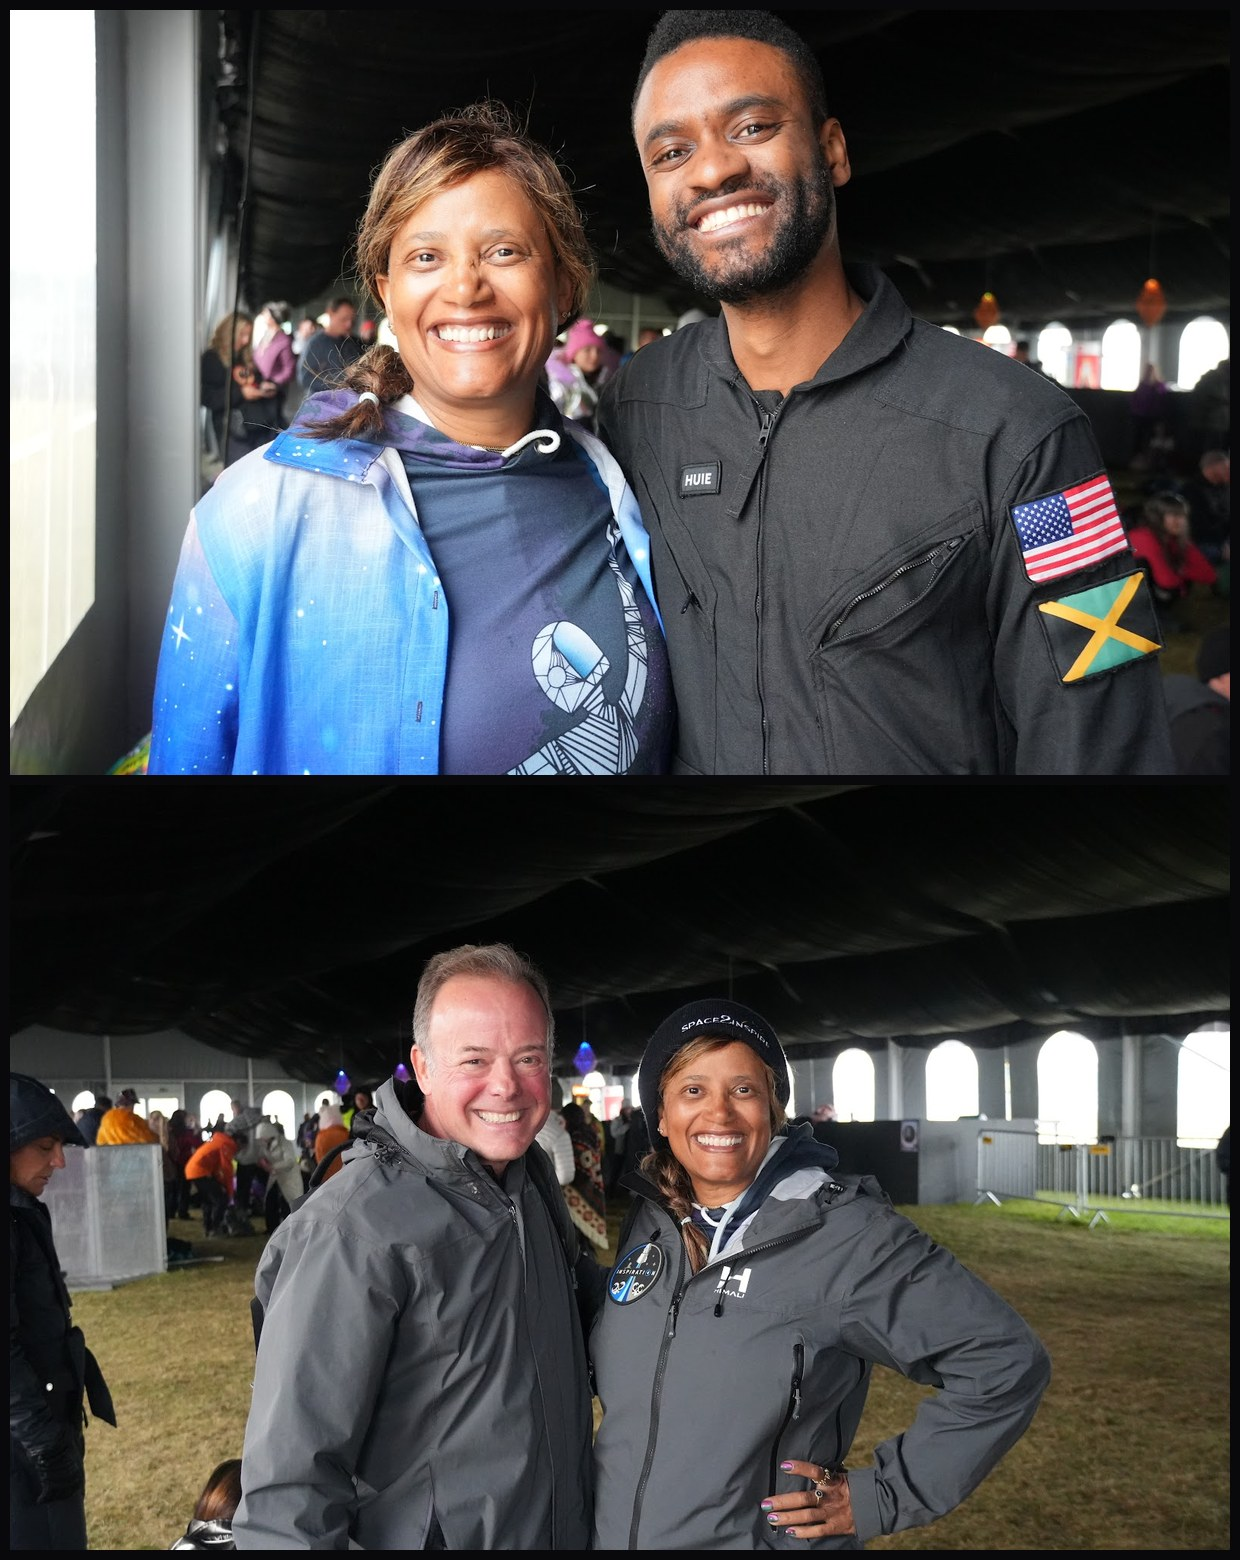
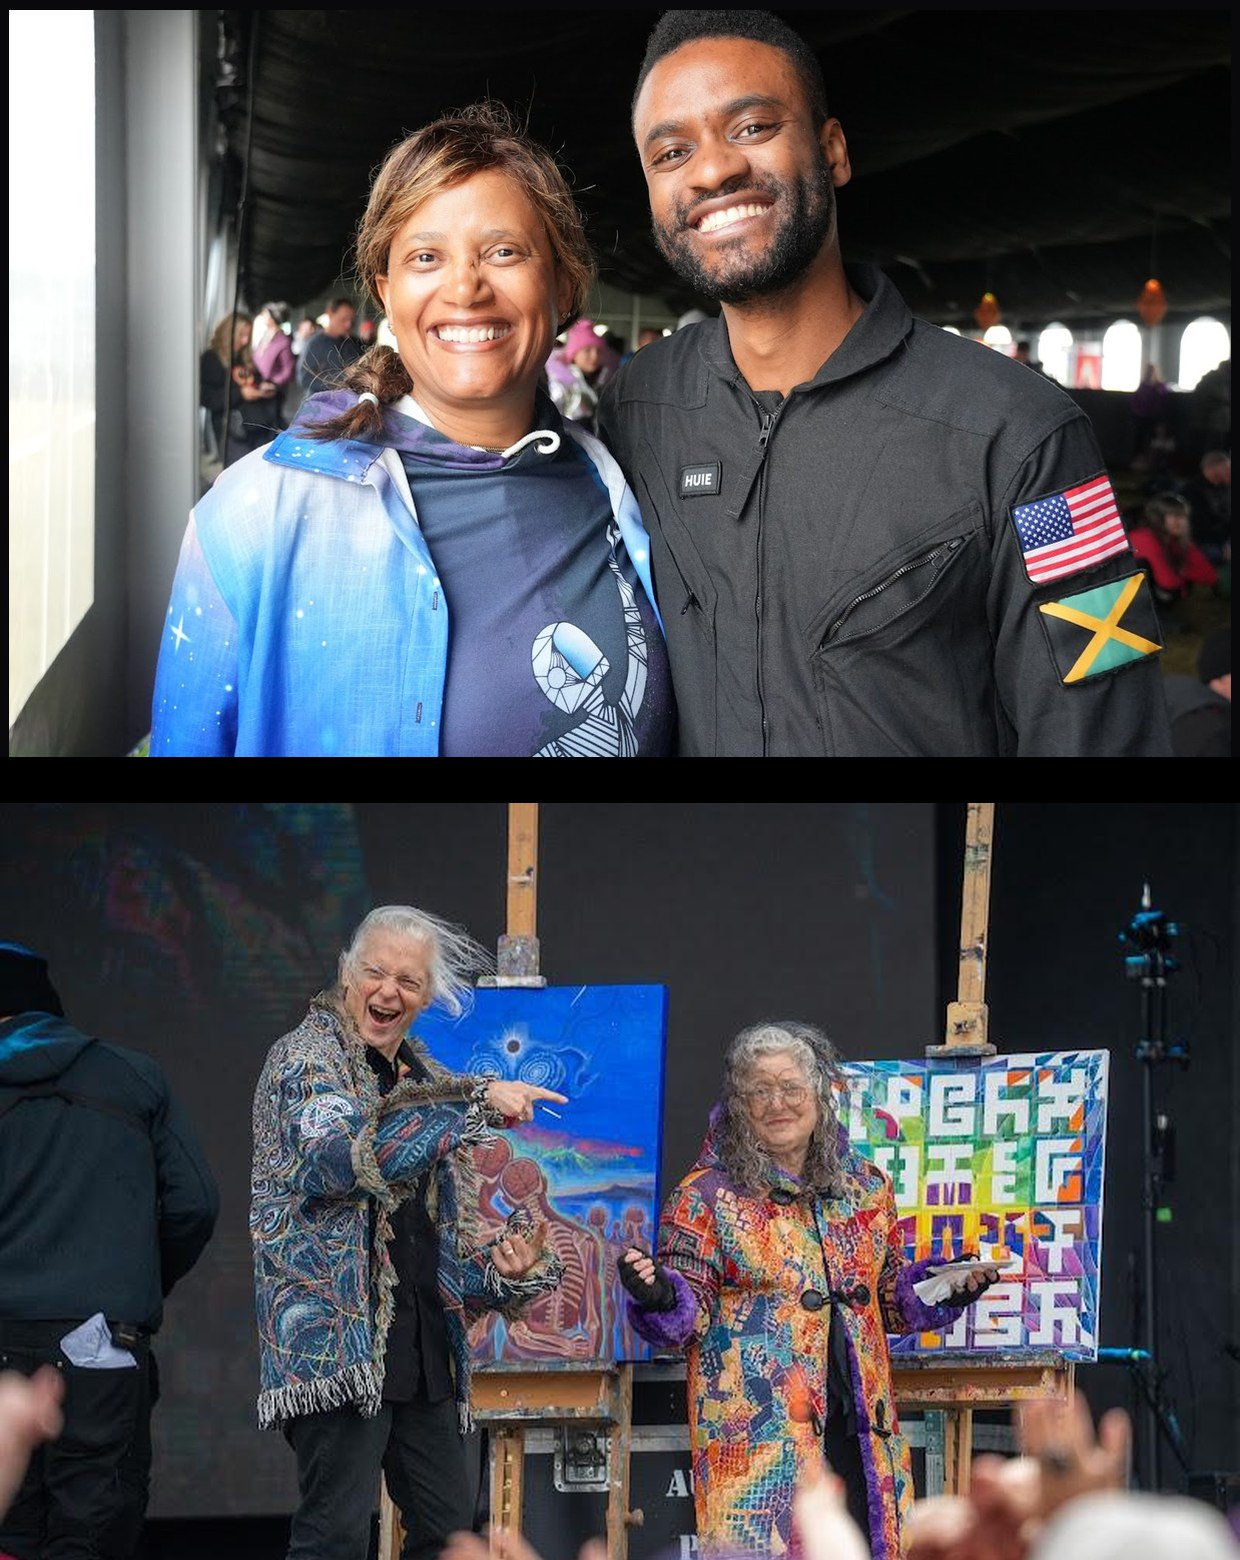
Apply Mitch's 2nd-round feedback: cover, reach, press, community
- Cover: kill the title + date line (logo already carries both), enlarge the
  logo and "Event Recap"
- Digital Reach: drop Facebook + X (Texas-era, incorrect), one line of four,
  remove the faded caption
- Press: add Billboard, Space.com, SETI Institute; accent is now a 3-proof
  stack (NYT feature + SETI broadcast + Dorothy Project stratosphere eclipse)
- Our Community: remove the duplicate Sian Proctor; keep Proctor + Huie,
  add Android Jones + Chris Dyer

diff --git a/index.html b/index.html
@@ -65,8 +65,8 @@
     background:radial-gradient(108% 108% at 50% 42%,rgba(9,9,11,.2) 0%,rgba(9,9,11,.62) 68%,rgba(9,9,11,.88) 100%)}
   .coverwrap{position:absolute;inset:0;z-index:2;display:flex;flex-direction:column;align-items:center;justify-content:center;text-align:center;padding:6%}
   /* cover logo marks */
-  .cover-mark{margin-bottom:1.4em}
-  .cover-mark img{width:clamp(98px,14.5vh,168px);height:auto;display:block;filter:drop-shadow(0 0 26px rgba(0,0,0,.5))}
+  .cover-mark{margin-bottom:0}
+  .cover-mark img{width:clamp(210px,42vh,404px);height:auto;display:block;filter:drop-shadow(0 0 40px rgba(0,0,0,.45))}
   .cover-imxp{margin-top:1.5em}
   .cover-imxp img{width:clamp(84px,9vw,124px);height:auto;display:block;opacity:.92;filter:drop-shadow(0 0 14px rgba(0,0,0,.5))}
   @media (prefers-reduced-motion: reduce){
@@ -75,8 +75,8 @@
   }
   .cover-sub{margin-top:1.7em;font-family:var(--label);font-weight:600;letter-spacing:.18em;text-transform:uppercase;
     font-size:clamp(.52rem,.92vw,.78rem);line-height:2.1;color:var(--body)}
-  .cover-tag{margin-top:1.5em;font-family:var(--label);font-weight:700;font-size:clamp(.5rem,.82vw,.68rem);
-    letter-spacing:.24em;text-transform:uppercase;color:var(--orange)}
+  .cover-tag{margin-top:1.1em;font-family:var(--label);font-weight:700;font-size:clamp(1rem,2.5vw,1.9rem);
+    letter-spacing:.34em;text-transform:uppercase;color:var(--orange)}
   .cover-note{margin-top:1.5em;font-weight:400;font-size:clamp(.68rem,1.1vw,.92rem);line-height:1.72;
     color:var(--body);max-width:58ch}
   /* soft photo backdrop (section slides) */
@@ -270,9 +270,7 @@
   <section class="slide active onphoto">
     <div class="coverbg"><img src="assets/cover.jpg" alt=""/></div>
     <div class="coverwrap">
-      <div class="cover-mark"><img src="assets/iceland-eclipse-logo.png" alt="Iceland Eclipse"/></div>
-      <h1 class="word">Iceland <em>Eclipse</em></h1>
-      <div class="cover-sub">A Celestial Gathering in the Land of Fire &amp; Ice<br/>11 – 15 August 2026 · Hellissandur · Snæfellsnes Peninsula</div>
+      <div class="cover-mark"><img src="assets/iceland-eclipse-logo.png" alt="Iceland Eclipse · 11-15 August 2026"/></div>
       <div class="cover-tag">Event Recap</div>
       <div class="cover-imxp"><img src="assets/imxp-logo.png" alt="IMXP"/></div>
     </div>
@@ -338,15 +336,12 @@
     <div class="pad">
       <div class="eyebrow">Digital Reach</div>
       <h2>50 Million Impressions, Before Anyone Landed in Iceland.</h2>
-      <div class="tiles">
+      <div class="tiles t4">
         <div class="tile"><div class="n" data-count>1.5M</div><div class="l">Page views</div></div>
         <div class="tile"><div class="n" data-count>750k</div><div class="l">Unique visitors</div></div>
         <div class="tile"><div class="n" data-count>100k+</div><div class="l">Email list</div></div>
-        <div class="tile"><div class="n" data-count>82k+</div><div class="l">Facebook fans</div></div>
         <div class="tile"><div class="n" data-count>44k+</div><div class="l">Instagram audience</div></div>
-        <div class="tile"><div class="n" data-count>12k+</div><div class="l">X (Twitter) followers</div></div>
       </div>
-      <p class="small" style="margin-top:1.1em">Guests spent an average of 2+ minutes on site before ever booking, well above a typical event campaign.</p>
     </div>
     <div class="sfoot"><span>Iceland Eclipse 2026 · Recap</span><span>05</span></div>
   </section>
@@ -443,9 +438,12 @@
         <h2>The Story Traveled the World.</h2>
         <div class="chips">
           <div class="chip">The New York Times</div>
+          <div class="chip">Billboard</div>
+          <div class="chip">Space.com</div>
           <div class="chip">Condé Nast Traveler</div>
           <div class="chip">Dazed</div>
           <div class="chip">Live Science</div>
+          <div class="chip">SETI Institute</div>
           <div class="chip">Schön! Magazine</div>
         </div>
         <div class="voices">
@@ -457,7 +455,7 @@
           <div class="vq"><p>"It was an honor to be part of your team."</p><span>@zen.meets.chaos</span></div>
         </div>
       </div>
-      <div class="accent" style="background:#000"><img src="assets/nyt-feature.jpg" alt="The New York Times feature on Iceland Eclipse" style="object-fit:contain"/></div>
+      <div class="accent" style="background:#000"><img src="assets/press-collage.jpg" alt="Iceland Eclipse in The New York Times, on the SETI Institute broadcast, and the eclipse captured from the stratosphere" style="object-fit:contain"/></div>
     </div></div>
     <div class="sfoot"><span>Iceland Eclipse 2026 · Recap</span><span>09</span></div>
   </section>

diff --git a/sources/mitch-feedback-2026-09-04.md b/sources/mitch-feedback-2026-09-04.md
@@ -62,15 +62,15 @@ Seven photos, byte-check before use like all deck imagery:
 
 Placement plan: #2 and #6 to the Press/testimonial slide; #3 and #5 to Our Community; #1/#4/#7 as options for Programming/Schedule.
 
-## Status (all PENDING as of 2026-09-04)
+## Status
 
-Ready to implement without more input:
-- Cover (logo big, Event Recap big, strip text)
-- Digital Reach (remove X + Facebook, Instagram one line, remove faded caption)
-- Press (add space.com + Billboard; work in photos #2 and #6)
-- Our Community (keep top image, replace duplicate with #3 or #5)
+DONE (2026-09-04):
+- Cover: killed the title + subtitle/date line, logo enlarged (it carries the name + date), "Event Recap" enlarged.
+- Digital Reach: removed Facebook (82k+) and X (12k+); one line of four (1.5M page views, 750k unique visitors, 100k+ email, 44k+ Instagram); faded caption removed.
+- Press: added Billboard, Space.com and SETI Institute to the chips; accent replaced with a 3-proof stack (NYT feature + SETI broadcast photo #2 + Dorothy stratosphere eclipse photo #6).
+- Our Community: kept the top image (Sian Proctor + astronaut Huie), replaced the duplicate-Proctor bottom with photo #5 (Android Jones + Chris Dyer).
 
-Needs a decision or asset from Lee/Mitch:
+Still needs a decision or asset from Lee/Mitch:
 - Reach numbers: real GA / icelandeclipse.com figures, or just drop FB + X from the current line?
 - Schedule: which Instagram schedule graphics to pull.
 - Programming: a lineup image, or build one from the confirmed 2026 lineup.
